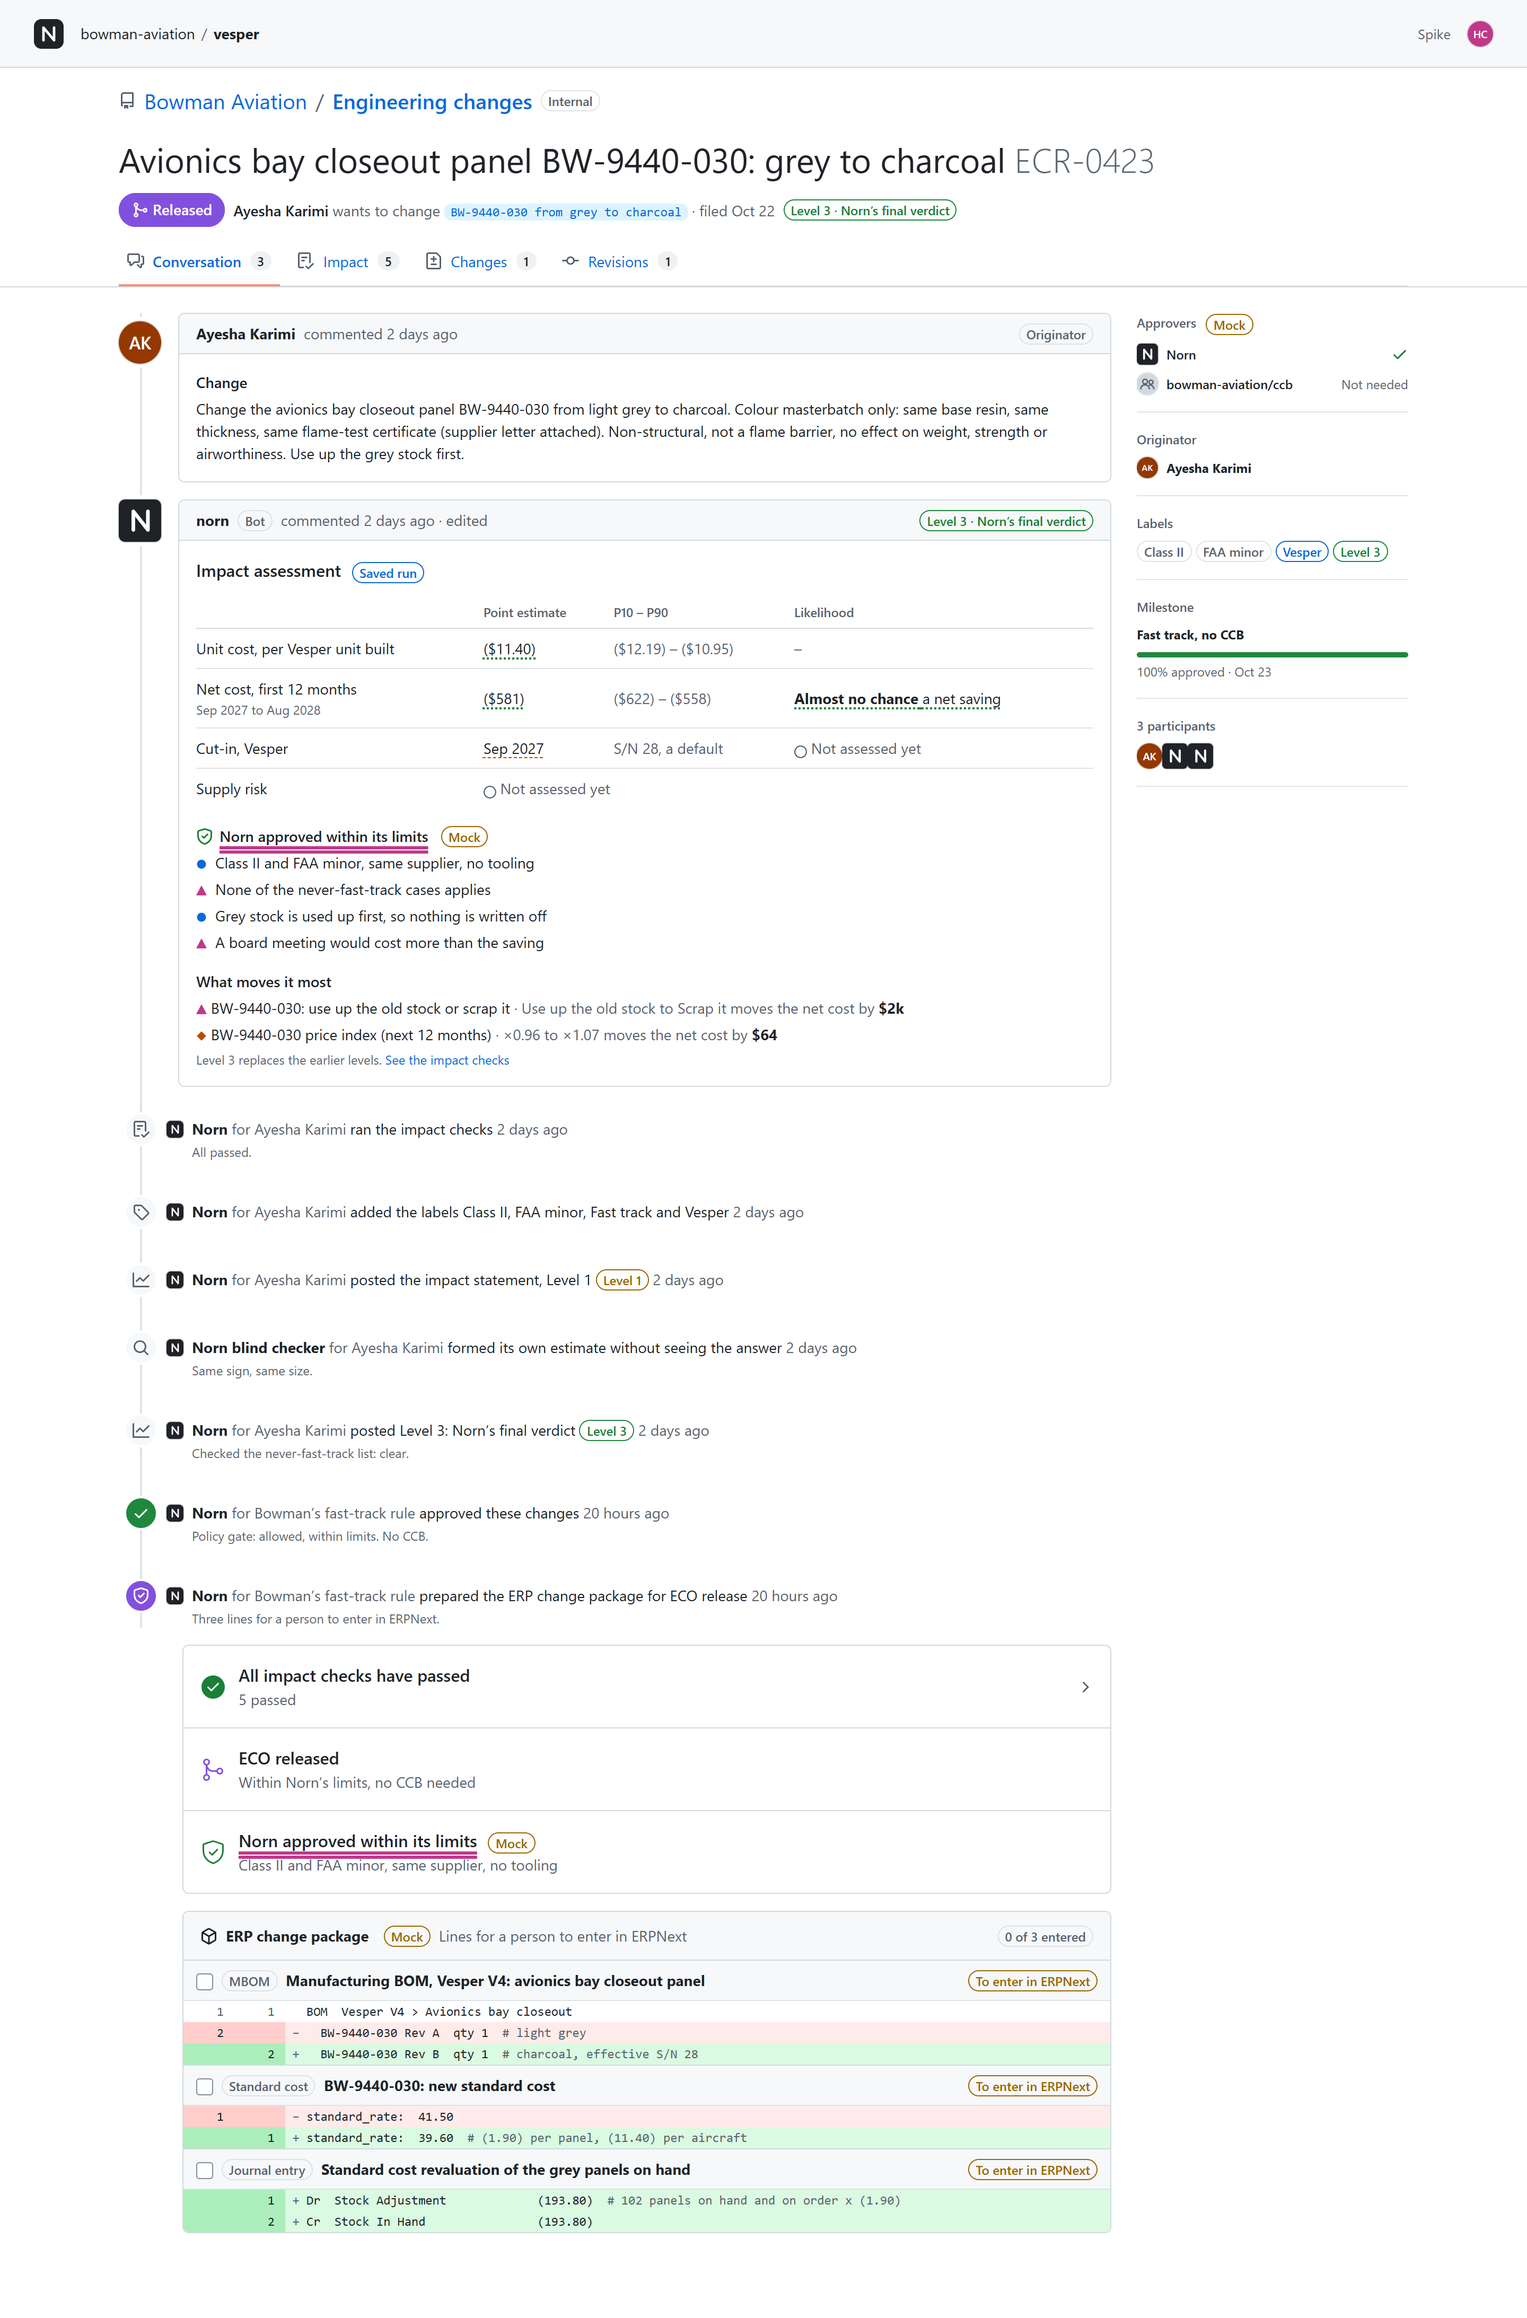
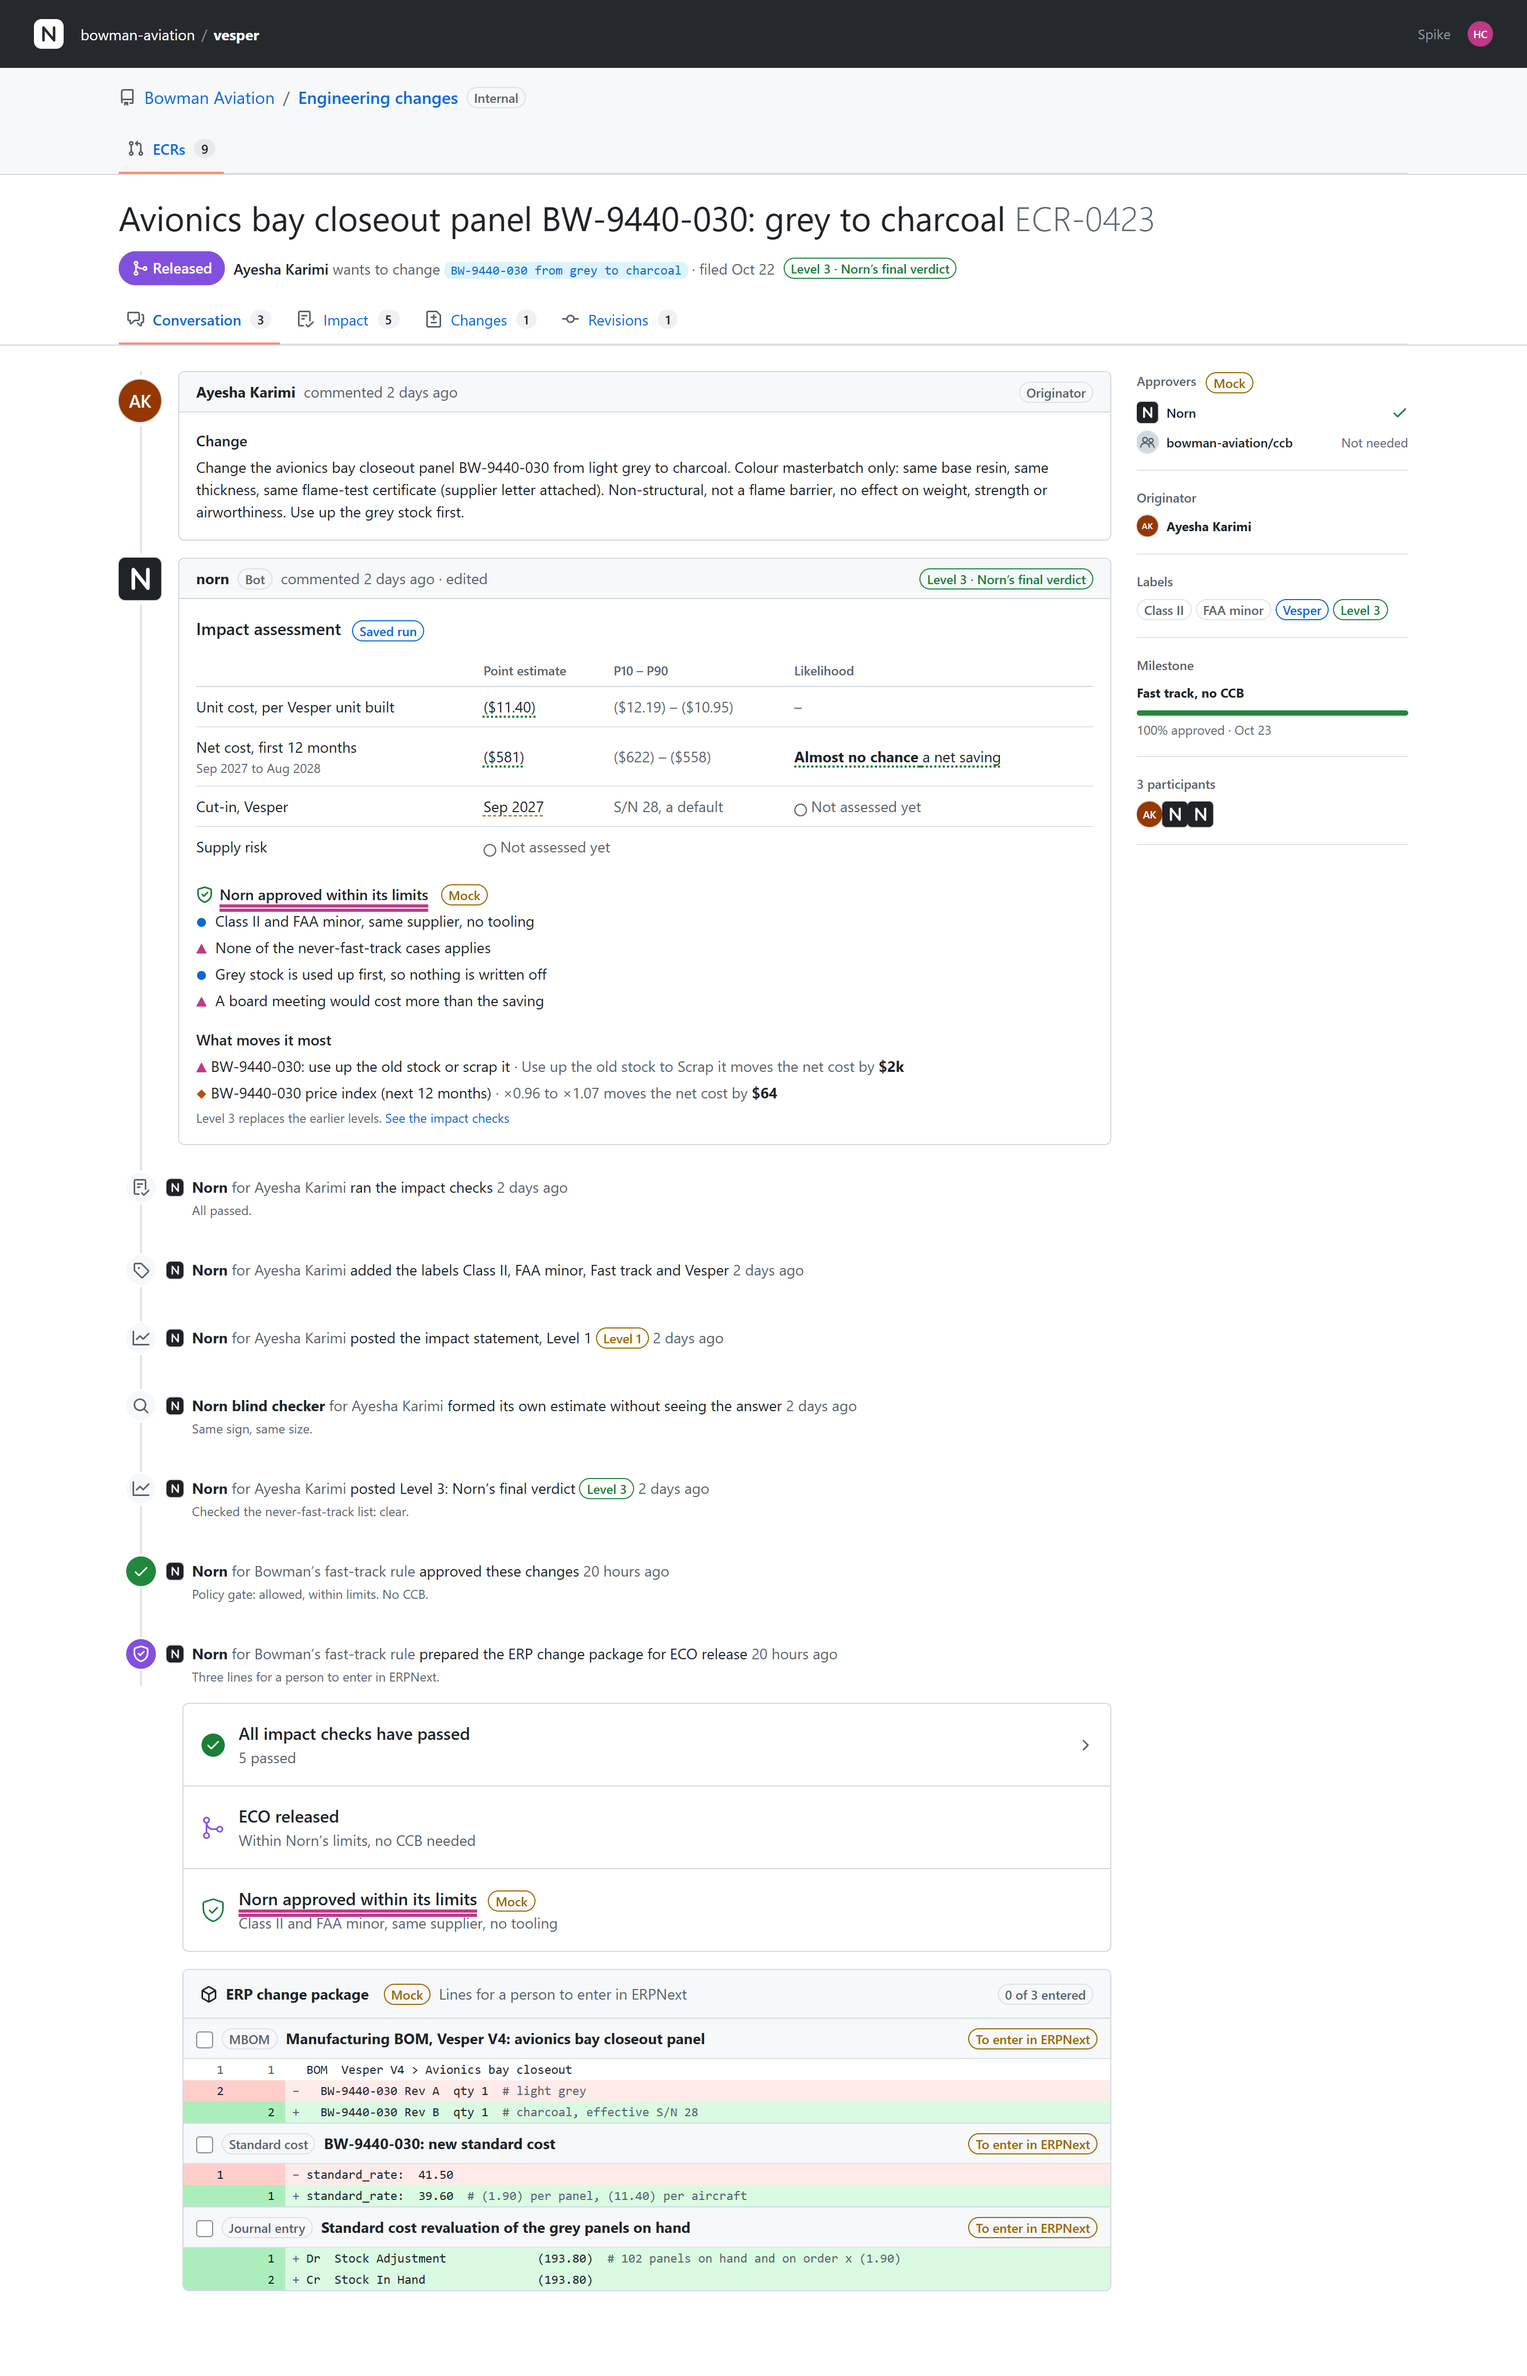
Match GitHub's header and repository band, and refresh the screenshots
GitHub's global header is dark and sits above a grey band with the repository's tab, so the list and
the ECR page now do the same, with counter pills on Open and Closed. The screenshots and the flow
GIF are regenerated from the real checks fixtures.

diff --git a/norn/web/src/screens/Shell.tsx b/norn/web/src/screens/Shell.tsx
@@ -1,8 +1,9 @@
 import type { ReactNode } from 'react';
-import { RepoIcon } from '@primer/octicons-react';
-import { Label } from '@primer/react';
-import { Link } from '../router.tsx';
-import { Person } from '../ui/Bits.tsx';
+import { GitPullRequestIcon, RepoIcon } from '@primer/octicons-react';
+import { Label, UnderlineNav } from '@primer/react';
+import { useEcrList } from '../assessment/source.ts';
+import { Link, navigate } from '../router.tsx';
+import { isOpen, Person } from '../ui/Bits.tsx';
 
 /** GitHub's global header: the mark, where you are, and your avatar. */
 export function Shell({ children }: { children: ReactNode }) {
@@ -12,7 +13,7 @@ export function Shell({ children }: { children: ReactNode }) {
         <Link to="/" className="nx-gh-logo" aria-label="Norn home">
           <svg width="28" height="28" viewBox="0 0 28 28" aria-hidden="true">
             <rect width="28" height="28" rx="7" fill="currentColor" />
-            <path d="M9 20V8l10 12V8" fill="none" stroke="var(--bgColor-default)" strokeWidth="2.4" strokeLinecap="round" strokeLinejoin="round" />
+            <path d="M9 20V8l10 12V8" fill="none" stroke="var(--bgColor-emphasis)" strokeWidth="2.4" strokeLinecap="round" strokeLinejoin="round" />
           </svg>
         </Link>
         <nav className="nx-gh-crumbs" aria-label="Breadcrumb">
@@ -30,16 +31,27 @@ export function Shell({ children }: { children: ReactNode }) {
   );
 }
 
-/** The repository-style title row GitHub shows above its lists and pull requests. */
+/** The band GitHub shows under its header: where you are, and the one tab of this repository. */
 export function RepoHeader({ mock = false }: { mock?: boolean }) {
+  const { data } = useEcrList();
+  const open = (data ?? []).filter(e => isOpen(e.status)).length;
   return (
-    <div className="nx-repo">
-      <RepoIcon size={16} className="nx-fg-muted" />
-      <Link to="/" className="nx-repo-owner">Bowman Aviation</Link>
-      <span className="nx-fg-muted">/</span>
-      <Link to="/" className="nx-repo-name">Engineering changes</Link>
-      <Label variant="secondary">Internal</Label>
-      {mock && <Label variant="attention">Mock data</Label>}
+    <div className="nx-repoband">
+      <div className="nx-container">
+        <div className="nx-repo">
+          <RepoIcon size={16} className="nx-fg-muted" />
+          <Link to="/" className="nx-repo-owner">Bowman Aviation</Link>
+          <span className="nx-fg-muted">/</span>
+          <Link to="/" className="nx-repo-name">Engineering changes</Link>
+          <Label variant="secondary">Internal</Label>
+          {mock && <Label variant="attention" title="Reviewers, comments and flags are mock; costs are saved runs of the checks">Mock data</Label>}
+        </div>
+        <UnderlineNav aria-label="Repository" variant="flush">
+          <UnderlineNav.Item href="/" icon={GitPullRequestIcon} counter={open} aria-current="page" onSelect={e => { e.preventDefault(); navigate('/'); }}>
+            ECRs
+          </UnderlineNav.Item>
+        </UnderlineNav>
+      </div>
     </div>
   );
 }

diff --git a/norn/web/src/norn.css b/norn/web/src/norn.css
@@ -60,19 +60,18 @@ body { margin: 0; }
 /* ---------- GitHub's global header ---------- */
 .nx-gh {
   display: flex; align-items: center; gap: 16px; height: 64px; padding: 0 32px;
-  background: var(--bgColor-muted); border-bottom: 1px solid var(--borderColor-default);
+  background: var(--bgColor-emphasis); color: var(--fgColor-onEmphasis);
 }
-.nx .nx-gh-logo { display: inline-flex; color: var(--fgColor-default); }
+.nx .nx-gh-logo { display: inline-flex; color: var(--fgColor-onEmphasis); }
 .nx-gh-logo:hover { text-decoration: none; }
 .nx-gh-crumbs { display: flex; align-items: center; gap: 6px; font-size: 14px; }
-.nx-gh-crumbs a { color: var(--fgColor-default); }
-.nx-gh-crumbs span { color: var(--fgColor-muted); }
-.nx-gh-link { color: var(--fgColor-muted) !important; font-size: 13px; }
+.nx .nx-gh-crumbs a { color: var(--fgColor-onEmphasis); }
+.nx-gh-crumbs span { color: #9198a1; }
+.nx .nx-gh-link { color: #9198a1; font-size: 13px; }
 
 /* ---------- the repository title row ---------- */
-.nx-repo {
-  display: flex; align-items: center; gap: 8px; max-width: 1280px; margin: 0 auto; padding: 16px 32px 0; font-size: 20px;
-}
+.nx-repoband { background: var(--bgColor-muted); border-bottom: 1px solid var(--borderColor-default); padding-top: 16px; }
+.nx-repo { display: flex; align-items: center; gap: 8px; font-size: 16px; margin-bottom: 12px; }
 .nx-repo-owner { color: var(--fgColor-accent) !important; }
 .nx-repo-name { font-weight: 600; }
 
@@ -89,7 +88,8 @@ body { margin: 0; }
 .nx-foot { padding: 8px 16px; font-size: 12px; color: var(--fgColor-muted); border-top: 1px solid var(--borderColor-muted); }
 
 /* ---------- the ECR list ---------- */
-.nx-list { padding-top: 16px; padding-bottom: 64px; }
+.nx-list { padding-top: 24px; padding-bottom: 64px; }
+.nx .nx-list-title { font-size: 20px; font-weight: 600; margin-bottom: 16px; }
 .nx-searchbar { margin-bottom: 16px; }
 .nx-states { display: flex; gap: 16px; }
 .nx-state {

diff --git a/norn/web/src/screens/EcrList.tsx b/norn/web/src/screens/EcrList.tsx
@@ -2,7 +2,7 @@ import { useMemo, useState } from 'react';
 import {
   AlertFillIcon, CheckCircleFillIcon, CheckIcon, CommentIcon, DotFillIcon, GitPullRequestIcon, SearchIcon,
 } from '@primer/octicons-react';
-import { ActionList, ActionMenu, AvatarStack, Label, TextInput } from '@primer/react';
+import { ActionList, ActionMenu, AvatarStack, CounterLabel, Label, TextInput } from '@primer/react';
 import { useEcrList } from '../assessment/source.ts';
 import type { EcrSummary } from '../assessment/types.ts';
 import { isOpen, LevelLabel, Person, StateIcon } from '../ui/Bits.tsx';
@@ -95,6 +95,7 @@ export function EcrList() {
     <>
       <RepoHeader mock />
       <main className="nx-container nx-list">
+        <h2 className="nx-list-title">All ECRs</h2>
         <div className="nx-searchbar">
           <TextInput
             block
@@ -110,10 +111,10 @@ export function EcrList() {
           <div className="nx-box-head">
             <div className="nx-states">
               <button type="button" className={`nx-state ${state === 'open' ? 'on' : ''}`} onClick={() => setState('open')}>
-                <GitPullRequestIcon size={16} /> {nOpen} Open
+                <GitPullRequestIcon size={16} /> Open <CounterLabel>{nOpen}</CounterLabel>
               </button>
               <button type="button" className={`nx-state ${state === 'closed' ? 'on' : ''}`} onClick={() => setState('closed')}>
-                <CheckIcon size={16} /> {nClosed} Closed
+                <CheckIcon size={16} /> Closed <CounterLabel>{nClosed}</CounterLabel>
               </button>
             </div>
             <span className="nx-sp" />
